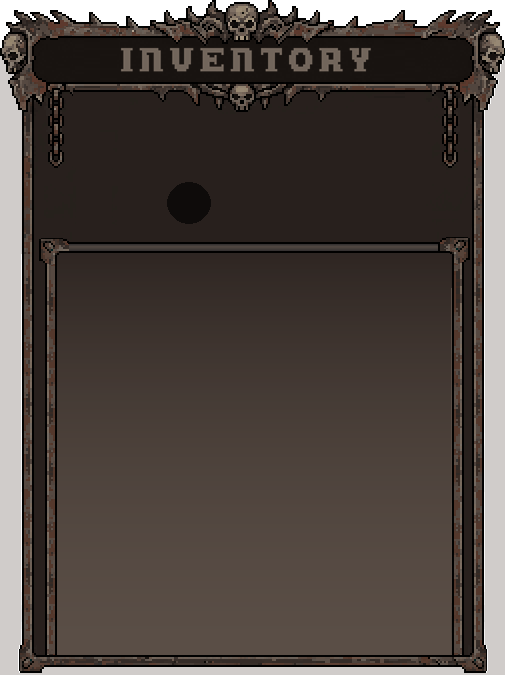
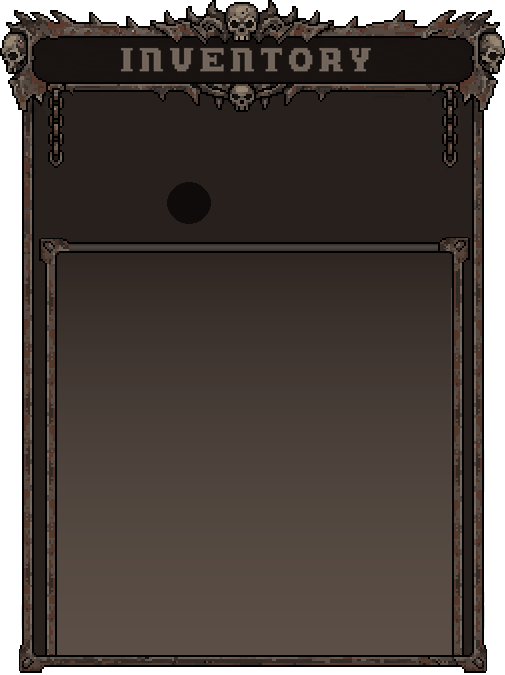
V8.1 - Shaders na UI

Changed region(s): [[0.0, 0.0933, 1.0, 1.0]]

diff --git a/src/framework/graphics/drawqueue.cpp b/src/framework/graphics/drawqueue.cpp
@@ -8,6 +8,7 @@
 #include <framework/graphics/textrender.h>
 #include <framework/graphics/drawcache.h>
 #include <framework/graphics/image.h>
+#include <framework/graphics/texturemanager.h>
 #include <client/spritemanager.h>
 #include <client/outfit.h>
 
@@ -115,6 +116,47 @@ bool DrawQueueItemFilledRect::cache()
     if (!g_drawCache.hasSpace(6)) return false;
     g_drawCache.addRect(m_dest, m_color);
     return true; 
+}
+
+void DrawQueueItemFilledRectWithShader::draw()
+{
+    if (m_shader.empty()) {
+        // Fallback to normal filled rect if no shader
+        g_painter->setColor(m_color);
+        g_painter->drawFilledRect(m_dest);
+        return;
+    }
+
+    PainterShaderProgramPtr shader = g_shaders.getShader(m_shader);
+    if (!shader) {
+        // Fallback if shader not found
+        g_painter->setColor(m_color);
+        g_painter->drawFilledRect(m_dest);
+        return;
+    }
+
+    // Create a coords buffer for the rectangle with proper texture coordinates
+    CoordsBuffer coordsBuffer;
+    // Add rectangle with normalized texture coordinates (0,0 to 1,1)
+    coordsBuffer.addRect(m_dest, Rect(0, 0, 1, 1));
+
+    // Create a 1x1 white texture for the shader to work with
+    static TexturePtr whiteTexture = nullptr;
+    if (!whiteTexture) {
+        ImagePtr whiteImage = ImagePtr(new Image(Size(1, 1), 4));
+        whiteImage->setPixel(0, 0, Color::white);
+        whiteTexture = TexturePtr(new Texture(whiteImage));
+        whiteTexture->setSmooth(false);
+    }
+
+    g_painter->setShaderProgram(shader);
+    shader->bindMultiTextures();
+    shader->setCenter(m_dest.center());
+    shader->setOffset(m_dest.topLeft());
+    shader->updateTime();
+    g_painter->setColor(m_color);
+    g_painter->drawTextureCoords(coordsBuffer, whiteTexture);
+    g_painter->resetShaderProgram();
 }
 
 void DrawQueueItemClearRect::draw()

diff --git a/src/framework/luafunctions.cpp b/src/framework/luafunctions.cpp
@@ -630,6 +630,8 @@ void Application::registerLuaFunctions()
     g_lua.bindClassMemberFunction<UIWidget>("getBackgroundHeight", &UIWidget::getBackgroundHeight);
     g_lua.bindClassMemberFunction<UIWidget>("getBackgroundSize", &UIWidget::getBackgroundSize);
     g_lua.bindClassMemberFunction<UIWidget>("getBackgroundRect", &UIWidget::getBackgroundRect);
+    g_lua.bindClassMemberFunction<UIWidget>("setBackgroundShader", &UIWidget::setBackgroundShader);
+    g_lua.bindClassMemberFunction<UIWidget>("getBackgroundShader", &UIWidget::getBackgroundShader);
     g_lua.bindClassMemberFunction<UIWidget>("getIconColor", &UIWidget::getIconColor);
     g_lua.bindClassMemberFunction<UIWidget>("getIconOffsetX", &UIWidget::getIconOffsetX);
     g_lua.bindClassMemberFunction<UIWidget>("getIconOffsetY", &UIWidget::getIconOffsetY);
@@ -699,6 +701,8 @@ void Application::registerLuaFunctions()
     g_lua.bindClassMemberFunction<UIWidget>("getImageBorderLeft", &UIWidget::getImageBorderLeft);
     g_lua.bindClassMemberFunction<UIWidget>("getImageTextureWidth", &UIWidget::getImageTextureWidth);
     g_lua.bindClassMemberFunction<UIWidget>("getImageTextureHeight", &UIWidget::getImageTextureHeight);
+    g_lua.bindClassMemberFunction<UIWidget>("setImageShader", &UIWidget::setImageShader);
+    g_lua.bindClassMemberFunction<UIWidget>("getImageShader", &UIWidget::getImageShader);
     g_lua.bindClassMemberFunction<UIWidget>("resizeToText", &UIWidget::resizeToText);
     g_lua.bindClassMemberFunction<UIWidget>("clearText", &UIWidget::clearText);
     g_lua.bindClassMemberFunction<UIWidget>("setText", &UIWidget::setText);

diff --git a/src/framework/ui/uiwidgetbasestyle.cpp b/src/framework/ui/uiwidgetbasestyle.cpp
@@ -30,6 +30,9 @@
 #include <framework/graphics/painter.h>
 #include <framework/graphics/texture.h>
 #include <framework/graphics/texturemanager.h>
+#include <framework/graphics/drawqueue.h>
+#include <framework/graphics/shadermanager.h>
+#include <framework/graphics/image.h>
 
 void UIWidget::initBaseStyle()
 {
@@ -102,6 +105,8 @@ void UIWidget::parseBaseStyle(const OTMLNodePtr& styleNode)
             setBackgroundSize(node->value<Size>());
         else if(node->tag() == "background-rect")
             setBackgroundRect(node->value<Rect>());
+        else if(node->tag() == "background-shader")
+            setBackgroundShader(node->value());
         else if(node->tag() == "icon")
             setIcon(stdext::resolve_path(node->value(), node->source()));
         else if(node->tag() == "icon-source")
@@ -346,7 +351,13 @@ void UIWidget::drawBackground(const Rect& screenCoords)
         drawRect.translate(m_backgroundRect.topLeft());
         if(m_backgroundRect.isValid())
             drawRect.resize(m_backgroundRect.size());
-        g_drawQueue->addFilledRect(drawRect, m_backgroundColor);
+        
+        if (!m_backgroundShader.empty()) {
+            DrawQueueItemFilledRectWithShader* item = new DrawQueueItemFilledRectWithShader(drawRect, m_backgroundColor, m_backgroundShader);
+            g_drawQueue->add(item);
+        } else {
+            g_drawQueue->addFilledRect(drawRect, m_backgroundColor);
+        }
     }
 }
 

diff --git a/src/framework/ui/uiwidget.h b/src/framework/ui/uiwidget.h
@@ -303,6 +303,7 @@ protected:
     Color m_color;
     Color m_backgroundColor;
     Rect m_backgroundRect;
+    std::string m_backgroundShader;
     TexturePtr m_icon;
     Color m_iconColor;
     Rect m_iconRect;
@@ -335,6 +336,7 @@ public:
     void setBackgroundHeight(int height) { m_backgroundRect.setHeight(height); }
     void setBackgroundSize(const Size& size) { m_backgroundRect.resize(size); }
     void setBackgroundRect(const Rect& rect) { m_backgroundRect = rect; }
+    void setBackgroundShader(const std::string& str) { m_backgroundShader = str; }
     void setIcon(const std::string& iconFile);
     void setIconColor(const Color& color) { m_iconColor = color; }
     void setIconOffsetX(int x) { m_iconOffset.x = x; }
@@ -391,6 +393,7 @@ public:
     int getBackgroundHeight() { return m_backgroundRect.height(); }
     Size getBackgroundSize() { return m_backgroundRect.size(); }
     Rect getBackgroundRect() { return m_backgroundRect; }
+    std::string getBackgroundShader() { return m_backgroundShader; }
     Color getIconColor() { return m_iconColor; }
     int getIconOffsetX() { return m_iconOffset.x; }
     int getIconOffsetY() { return m_iconOffset.y; }

diff --git a/src/framework/graphics/drawqueue.h b/src/framework/graphics/drawqueue.h
@@ -90,6 +90,16 @@ struct DrawQueueItemFilledRect : public DrawQueueItem {
     Rect m_dest;
 };
 
+struct DrawQueueItemFilledRectWithShader : public DrawQueueItem {
+    DrawQueueItemFilledRectWithShader(const Rect& rect, const Color& color, const std::string& shader) :
+        DrawQueueItem(nullptr, color), m_dest(rect), m_shader(shader) {};
+    void draw() override;
+    bool cache() override { return false; }
+
+    Rect m_dest;
+    std::string m_shader;
+};
+
 struct DrawQueueItemClearRect : public DrawQueueItem {
     DrawQueueItemClearRect(const Rect& rect, const Color& color) :
         DrawQueueItem(nullptr, color), m_dest(rect)
